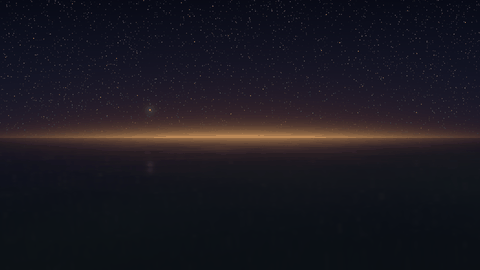
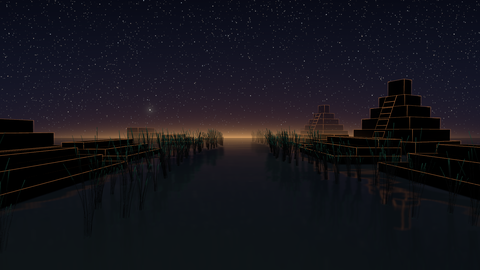
library: stage_valley's lake mirrors what stands on it: a second tex.render of the scene by a camera mirrored at the water (below it by the eye height, pitch and roll turned round) at a quarter of 1920x1080, turned upside down, cut below the water, faded, blurred and laid over the sky's mirror in la
generated with Claude Code

Changed region(s): [[0.5, 0.2963, 1.0, 0.7407], [0.0, 0.4444, 0.4688, 0.7704], [0.8125, 0.7407, 0.8438, 0.7704]]

diff --git a/library/README.md b/library/README.md
@@ -553,8 +553,12 @@ A second family of worlds: the camera flies low over a dark lake in a valley at 
 the first light of dawn on the horizon. The sky is night blue near the horizon and black
 overhead. The dawn lies on the horizon as a band of light: `dawn` 0 is a thin dark red line, 1 a
 broad copper band with a gold core. The band never becomes a sun. The lake mirrors the sky, the
-band and the stars, blurred and broken up by ripples. The mirror is faint near the camera and
-strong towards the horizon. A low mist drifts on the water near the camera; the bass thickens
+band and the stars, blurred and broken up by ripples. It also mirrors what stands on it: the
+floor, mid and ceiling elements. A black body stays black in the water, and its rims mirror
+fainter and softer than they shine. The mirror is faint near the camera and strong towards the
+horizon. The stage draws that mirror as a second, small render of the scene from below the
+water, upside down. The stage also cuts every render at the water line, so an element sinks into
+the lake without a sheet of its own. A low mist drifts on the water near the camera; the bass thickens
 it. Ripples and mist come towards the camera one grid cell per beat of `travelled`, as the
 synthwave floor does. The sky elements are `sky_stars`, `sky_horizon_glow`, `sky_volcano` and
 `sky_clouds`. On the shore stand the floor elements `floor_terraces`, `floor_reeds` and
@@ -580,7 +584,10 @@ glow. So a breakdown raises the light on the horizon, and the drop takes it back
   than on `stage_synthwave`), `swing`, `turn`, `beats_per_bar`; `step`; `start`, `end` of the
   distance fade (12 and 40 m: the valley is wide). The water: `ground` (1: below the horizon
   only the water shows; 0 the sky elements show through it), `reflection` (1), `ripple` (1),
-  `mist` (1; 0 none), `shore` (how much of the reflection shows where the shore stands: 0.5).
+  `mist` (1; 0 none), `shore` (how much of the reflection shows where the shore stands: 0.5),
+  `mirror` (how much the water mirrors what stands on it: 1 fully, 0 only the sky; turn it down
+  where a projector shows too much), `mirror_size` (the size of the mirror's render as a share
+  of 1920x1080: 0.25; a larger one is sharper).
 - Camera: `camera`, `glide` (3 s) and `presets` as on `stage_synthwave`, lower and slower: 0 low
   flight at 1.2 m, 1 at 1.8 m looking down a little for a build, 2 high and wide for a drop
   (2.4 m, 70 degrees), 3 level for a break at 1.6 m, 4 and 5 two tilted variants (0.9 m and
@@ -802,8 +809,8 @@ in the folder writes the models.
   it), `lane` (1.6), `clear` (metres between the lane's edge and the near line, 2.2), `near`,
   `far` (36 m), `beats_per_bar`, `smooth` (seconds the bass takes to fall), `line_width`,
   `extent`.
-- The platforms sink below a sheet at the water line that hides what lies under it. Floor
-  elements in the same render cannot reach below the water line while this element is on.
+- The platforms sink below the water line. `stage_valley` cuts its renders there, so on that
+  stage the sunk part stays hidden. On another stage it would show below the floor.
 
 ### floor_reeds
 
@@ -847,7 +854,8 @@ in the folder writes the models.
   from the lane towards the camera, 30), `warmth` (0 copper light, 1 jade; `beats.arrange`
   binds it), `lane` (1.6), `clear` (metres between the lane's edge and a stela, 1.3), `near`,
   `far` (36 m), `smooth`, `groove` (how bright a groove's floor is), `line_width`.
-- The stelae sink below a sheet at the water line, as `floor_terraces` do.
+- The stelae sink below the water line, as `floor_terraces` do: `stage_valley` hides what lies
+  under it.
 
 ### mid_glider
 
